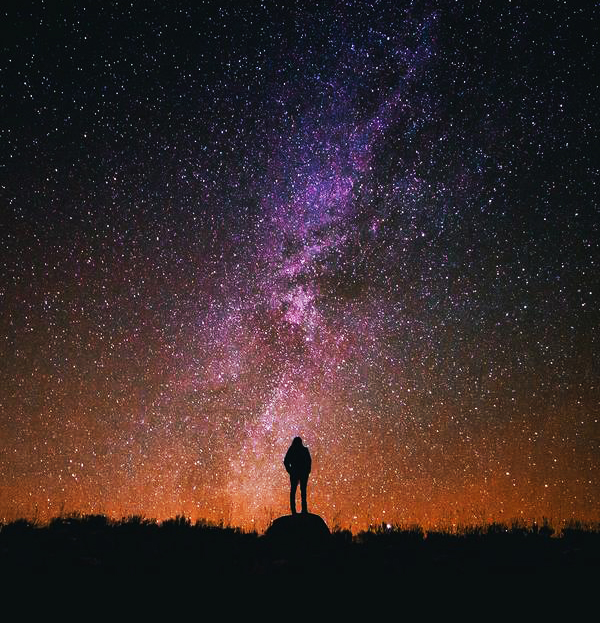
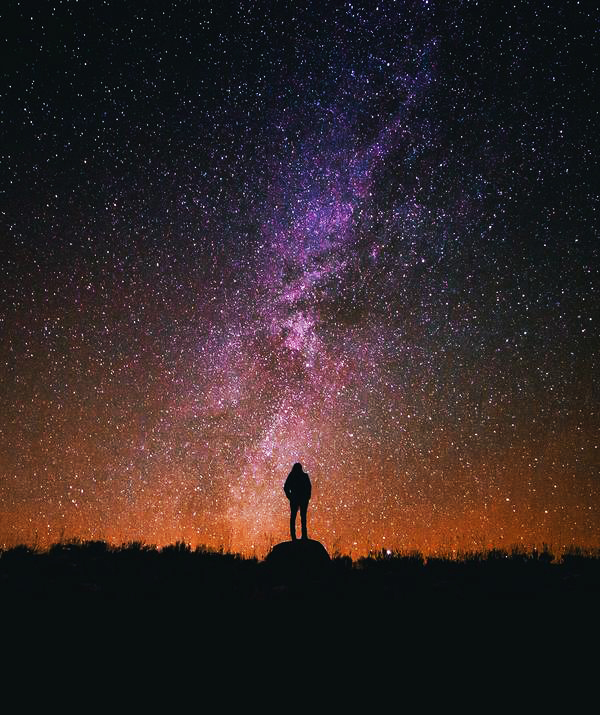
background fixed again

diff --git a/src/components/Welcome/Welcome.css b/src/components/Welcome/Welcome.css
@@ -108,6 +108,7 @@
     display: block;
     z-index: -2; 
     position: absolute;
-    width: 100%;    
+    width: 100%; 
+    margin-top: 50px;    
   }
 }
